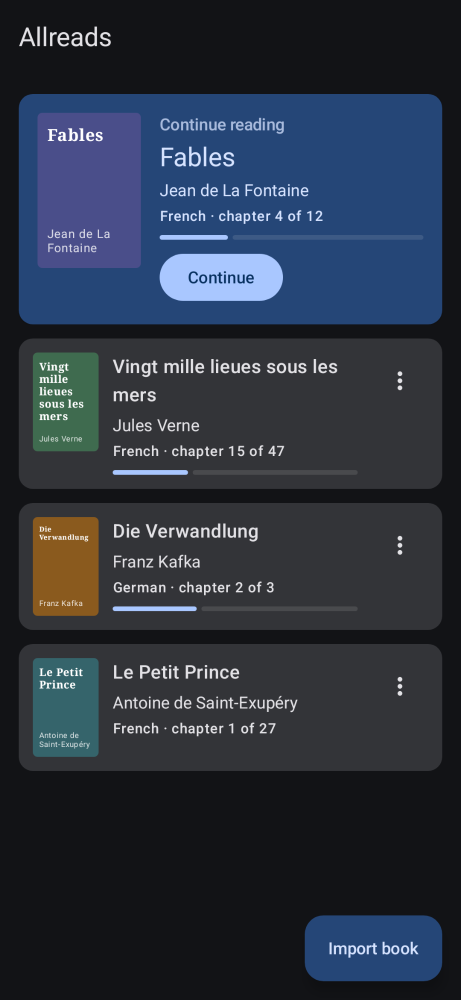
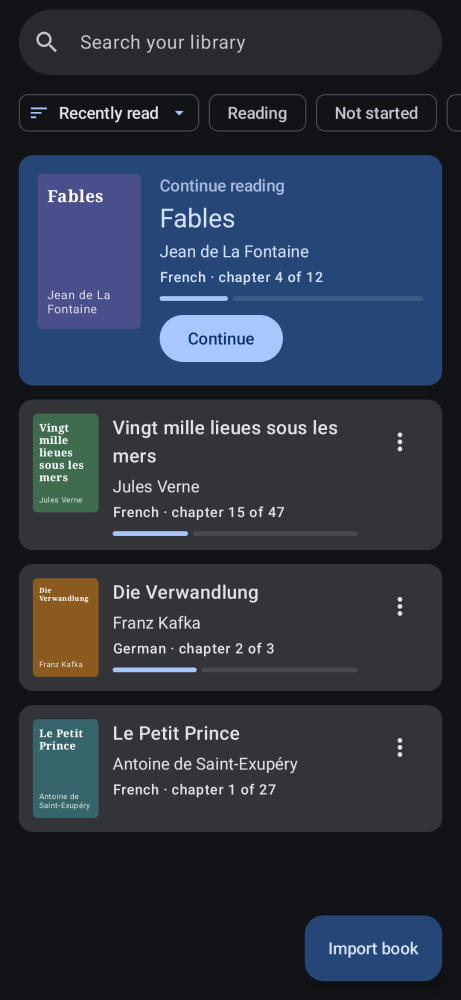
feat(android): library search as a pill with a sort chip and on-off filter chips
Claude-Session: https://claude.ai/code/session_01JqSuo8NKpRmXNi7JhUvRyo

diff --git a/android/app/src/main/java/io/github/chflick/allreads/ui/library/LibraryScreen.kt b/android/app/src/main/java/io/github/chflick/allreads/ui/library/LibraryScreen.kt
@@ -1,14 +1,24 @@
 package io.github.chflick.allreads.ui.library
 
+import androidx.compose.foundation.layout.statusBarsPadding
+import androidx.compose.foundation.shape.CircleShape
+import androidx.compose.foundation.text.KeyboardActions
+import androidx.compose.foundation.text.KeyboardOptions
+import androidx.compose.material.icons.filled.ArrowDropDown
+import androidx.compose.material3.AssistChip
+import androidx.compose.material3.TextField
+import androidx.compose.material3.TextFieldDefaults
+import androidx.compose.ui.graphics.Color
+import androidx.compose.ui.platform.LocalFocusManager
+import androidx.compose.ui.semantics.contentDescription
+import androidx.compose.ui.semantics.semantics
+import androidx.compose.ui.text.input.ImeAction
 import androidx.activity.compose.BackHandler
 import androidx.compose.foundation.horizontalScroll
 import androidx.compose.foundation.rememberScrollState
 import androidx.compose.material.icons.filled.Close
 import androidx.compose.material.icons.filled.Search
 import androidx.compose.material3.FilterChip
-import androidx.compose.material3.OutlinedTextField
-import androidx.compose.ui.focus.FocusRequester
-import androidx.compose.ui.focus.focusRequester
 import io.github.chflick.allreads.ui.SortIcon
 import android.graphics.BitmapFactory
 import androidx.activity.compose.rememberLauncherForActivityResult
@@ -225,7 +235,6 @@ private fun LanguageDialog(pending: PendingImport, onConfirm: (String) -> Unit, 
 }
 
 /** The library without its view model, so it can be shown in previews and screenshots. */
-@OptIn(ExperimentalMaterial3Api::class)
 @Composable
 fun LibraryContent(
     state: LibraryState,
@@ -236,29 +245,24 @@ fun LibraryContent(
     onView: (LibraryView) -> Unit = {},
 ) {
     val view = state.view
-    // The search panel (search field and filter chips) opens from the top bar.
-    var searching by rememberSaveable { mutableStateOf(view.query.isNotBlank()) }
-    val closeSearch = {
-        searching = false
-        onView(view.copy(query = "", language = null, progress = BookProgress.All))
+    val focus = LocalFocusManager.current
+    // Back first clears a search, then leaves the library.
+    BackHandler(enabled = view.query.isNotEmpty()) {
+        onView(view.copy(query = ""))
+        focus.clearFocus()
     }
-    BackHandler(enabled = searching, onBack = closeSearch)
     Scaffold(
         topBar = {
-            TopAppBar(
-                title = { Text("Allreads") },
-                actions = {
-                    if (state.books.isNotEmpty()) {
-                        IconButton(onClick = { if (searching) closeSearch() else searching = true }) {
-                            Icon(
-                                if (searching) Icons.Default.Close else Icons.Default.Search,
-                                contentDescription = if (searching) "Close the search" else "Search and filter books",
-                            )
-                        }
-                        SortMenu(view.sort, onSort = { onView(view.copy(sort = it)) })
-                    }
-                },
-            )
+            if (state.books.isNotEmpty()) {
+                Column(Modifier.statusBarsPadding().padding(top = 8.dp, bottom = 4.dp)) {
+                    SearchPill(view.query, onQuery = { onView(view.copy(query = it)) })
+                    FilterRow(state, onView)
+                }
+            } else {
+                Box(Modifier.statusBarsPadding().padding(start = 20.dp, top = 16.dp, bottom = 8.dp)) {
+                    Text("Allreads", style = MaterialTheme.typography.titleLarge)
+                }
+            }
         },
         snackbarHost = { SnackbarHost(snackbar) },
         floatingActionButton = {
@@ -273,86 +277,108 @@ fun LibraryContent(
             }
             return@Scaffold
         }
-        Column(Modifier.fillMaxSize().padding(padding)) {
-            if (searching) SearchPanel(state, onView)
-            val shown = state.shown
-            if (shown.isEmpty()) {
-                Box(Modifier.fillMaxSize(), contentAlignment = Alignment.Center) {
-                    Text("No books match.", modifier = Modifier.padding(24.dp))
-                }
-                return@Column
+        val shown = state.shown
+        if (shown.isEmpty()) {
+            Box(Modifier.fillMaxSize().padding(padding), contentAlignment = Alignment.Center) {
+                Text("No books match.", modifier = Modifier.padding(24.dp))
             }
-            LazyColumn(
-                modifier = Modifier.fillMaxSize(),
-                // The bottom leaves room for the import button.
-                contentPadding = PaddingValues(start = 16.dp, end = 16.dp, top = 16.dp, bottom = 88.dp),
-                verticalArrangement = Arrangement.spacedBy(12.dp),
-            ) {
-                // With nothing searched, filtered or re-sorted, the last book read
-                // comes first and gets the big card.
-                val current = shown.firstOrNull()?.takeIf { view.isDefault && it.lastReadAt != null }
-                current?.let { book ->
-                    item(key = "continue") {
-                        ContinueCard(book, onOpen = { onOpen(book) }, onLongPress = { onLongPress(book) })
-                    }
+            return@Scaffold
+        }
+        LazyColumn(
+            modifier = Modifier.fillMaxSize().padding(padding),
+            // The bottom leaves room for the import button.
+            contentPadding = PaddingValues(start = 16.dp, end = 16.dp, top = 8.dp, bottom = 88.dp),
+            verticalArrangement = Arrangement.spacedBy(12.dp),
+        ) {
+            // With nothing searched, filtered or re-sorted, the last book read
+            // comes first and gets the big card.
+            val current = shown.firstOrNull()?.takeIf { view.isDefault && it.lastReadAt != null }
+            current?.let { book ->
+                item(key = "continue") {
+                    ContinueCard(book, onOpen = { onOpen(book) }, onLongPress = { onLongPress(book) })
                 }
-                items(shown.drop(if (current != null) 1 else 0), key = { it.id }) { book ->
-                    BookRow(book, onOpen = { onOpen(book) }, onLongPress = { onLongPress(book) })
-                }
+            }
+            items(shown.drop(if (current != null) 1 else 0), key = { it.id }) { book ->
+                BookRow(book, onOpen = { onOpen(book) }, onLongPress = { onLongPress(book) })
             }
         }
     }
 }
 
-/** The search field, then chips for reading progress and (with several) languages. */
+/** A rounded search field, always at the top, with a clear button once something is typed. */
 @Composable
-private fun SearchPanel(state: LibraryState, onView: (LibraryView) -> Unit) {
+private fun SearchPill(query: String, onQuery: (String) -> Unit) {
+    val focus = LocalFocusManager.current
+    TextField(
+        value = query,
+        onValueChange = onQuery,
+        placeholder = { Text("Search your library") },
+        leadingIcon = { Icon(Icons.Default.Search, contentDescription = null) },
+        trailingIcon = if (query.isNotEmpty()) {
+            {
+                IconButton(onClick = {
+                    onQuery("")
+                    focus.clearFocus()
+                }) { Icon(Icons.Default.Close, contentDescription = "Clear the search") }
+            }
+        } else {
+            null
+        },
+        singleLine = true,
+        shape = CircleShape,
+        colors = TextFieldDefaults.colors(
+            focusedContainerColor = MaterialTheme.colorScheme.surfaceContainerHigh,
+            unfocusedContainerColor = MaterialTheme.colorScheme.surfaceContainerHigh,
+            focusedIndicatorColor = Color.Transparent,
+            unfocusedIndicatorColor = Color.Transparent,
+        ),
+        keyboardOptions = KeyboardOptions(imeAction = ImeAction.Search),
+        keyboardActions = KeyboardActions(onSearch = { focus.clearFocus() }),
+        modifier = Modifier.fillMaxWidth().padding(horizontal = 16.dp),
+    )
+}
+
+/** The sort chip with its menu, then filters that switch on and off: progress and (with several) languages. */
+@Composable
+private fun FilterRow(state: LibraryState, onView: (LibraryView) -> Unit) {
     val view = state.view
-    val focus = remember { FocusRequester() }
-    // Opening the search puts the cursor in the field.
-    LaunchedEffect(Unit) { focus.requestFocus() }
-    Column(Modifier.padding(horizontal = 16.dp)) {
-        OutlinedTextField(
-            value = view.query,
-            onValueChange = { onView(view.copy(query = it)) },
-            placeholder = { Text("Title or author") },
-            leadingIcon = { Icon(Icons.Default.Search, contentDescription = null) },
-            singleLine = true,
-            modifier = Modifier.fillMaxWidth().focusRequester(focus),
-        )
-        Row(
-            Modifier.horizontalScroll(rememberScrollState()).padding(top = 8.dp),
-            horizontalArrangement = Arrangement.spacedBy(8.dp),
-        ) {
-            BookProgress.entries.forEach { progress ->
+    Row(
+        Modifier.horizontalScroll(rememberScrollState()).padding(horizontal = 16.dp).padding(top = 8.dp),
+        horizontalArrangement = Arrangement.spacedBy(8.dp),
+    ) {
+        SortChip(view.sort, onSort = { onView(view.copy(sort = it)) })
+        listOf(BookProgress.Reading, BookProgress.NotStarted).forEach { progress ->
+            FilterChip(
+                selected = view.progress == progress,
+                // A second tap switches the filter off again.
+                onClick = { onView(view.copy(progress = if (view.progress == progress) BookProgress.All else progress)) },
+                label = { Text(progress.label) },
+            )
+        }
+        if (state.languages.size > 1) {
+            state.languages.forEach { code ->
                 FilterChip(
-                    selected = view.progress == progress,
-                    onClick = { onView(view.copy(progress = progress)) },
-                    label = { Text(progress.label) },
+                    selected = view.language == code,
+                    onClick = { onView(view.copy(language = code.takeIf { view.language != it })) },
+                    label = { Text(languageName(code)) },
                 )
             }
-            if (state.languages.size > 1) {
-                state.languages.forEach { code ->
-                    FilterChip(
-                        selected = view.language == code,
-                        // A second tap on the chosen language shows every language again.
-                        onClick = { onView(view.copy(language = code.takeIf { view.language != it })) },
-                        label = { Text(languageName(code)) },
-                    )
-                }
-            }
         }
     }
 }
 
-/** The sort button and its menu. */
+/** "↕ Recently read ▾": shows the sort and opens the menu to change it. */
 @Composable
-private fun SortMenu(sort: BookSort, onSort: (BookSort) -> Unit) {
+private fun SortChip(sort: BookSort, onSort: (BookSort) -> Unit) {
     var open by remember { mutableStateOf(false) }
     Box {
-        IconButton(onClick = { open = true }) {
-            Icon(SortIcon, contentDescription = "Sort books, now by ${sort.label.lowercase()}")
-        }
+        AssistChip(
+            onClick = { open = true },
+            label = { Text(sort.label) },
+            leadingIcon = { Icon(SortIcon, contentDescription = null, modifier = Modifier.size(18.dp)) },
+            trailingIcon = { Icon(Icons.Default.ArrowDropDown, contentDescription = null, modifier = Modifier.size(18.dp)) },
+            modifier = Modifier.semantics { contentDescription = "Sort books, now by ${sort.label.lowercase()}" },
+        )
         DropdownMenu(expanded = open, onDismissRequest = { open = false }) {
             BookSort.entries.forEach { choice ->
                 DropdownMenuItem(

diff --git a/docs/POLISH.md b/docs/POLISH.md
@@ -137,3 +137,4 @@ A second pass, looking at the app as a designer and a learner would rather than 
 4. **Learning features:** 58, 60, then 59, 64.
 
 2026-11-26: library search, filters and sort (not on the original list). The search icon opens a field for title or author, with chips for All / Reading / Not started and, when there are several, the books' languages. The sort menu offers recently read, recently added, title and author, and remembers the choice. The Continue card only shows with the default view.
+Redesigned the same day: a "Search your library" pill always at the top (in place of the title bar), and one row of chips under it: the sort chip with its menu, then Reading / Not started and the languages as on-off filters.
